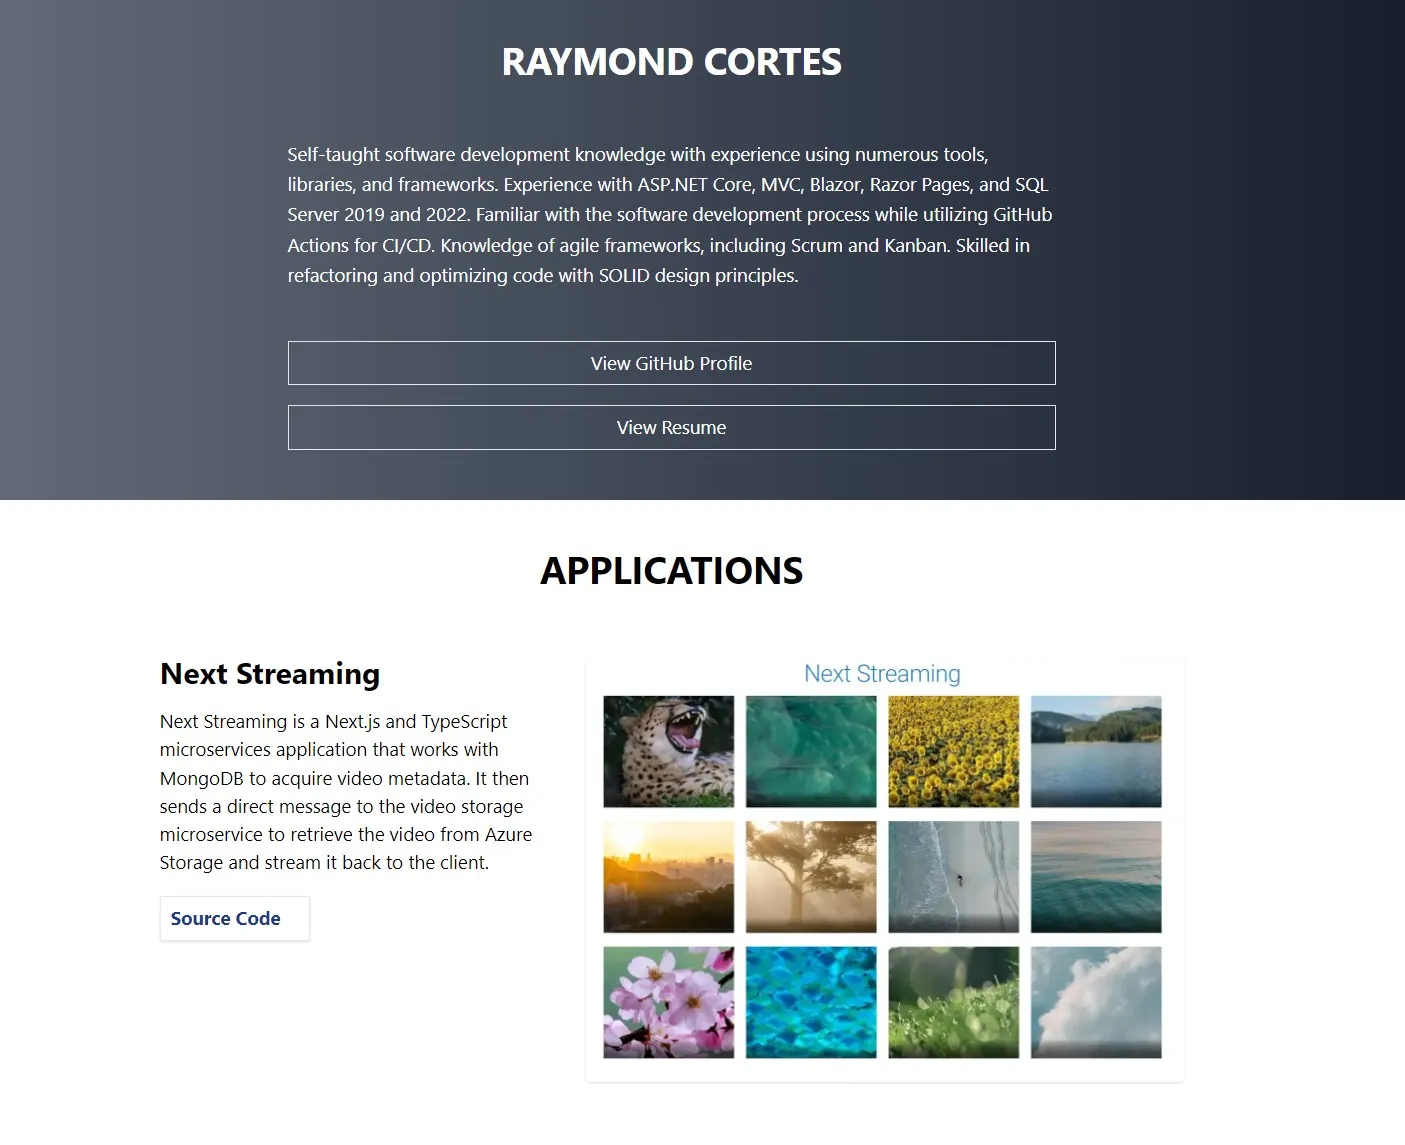
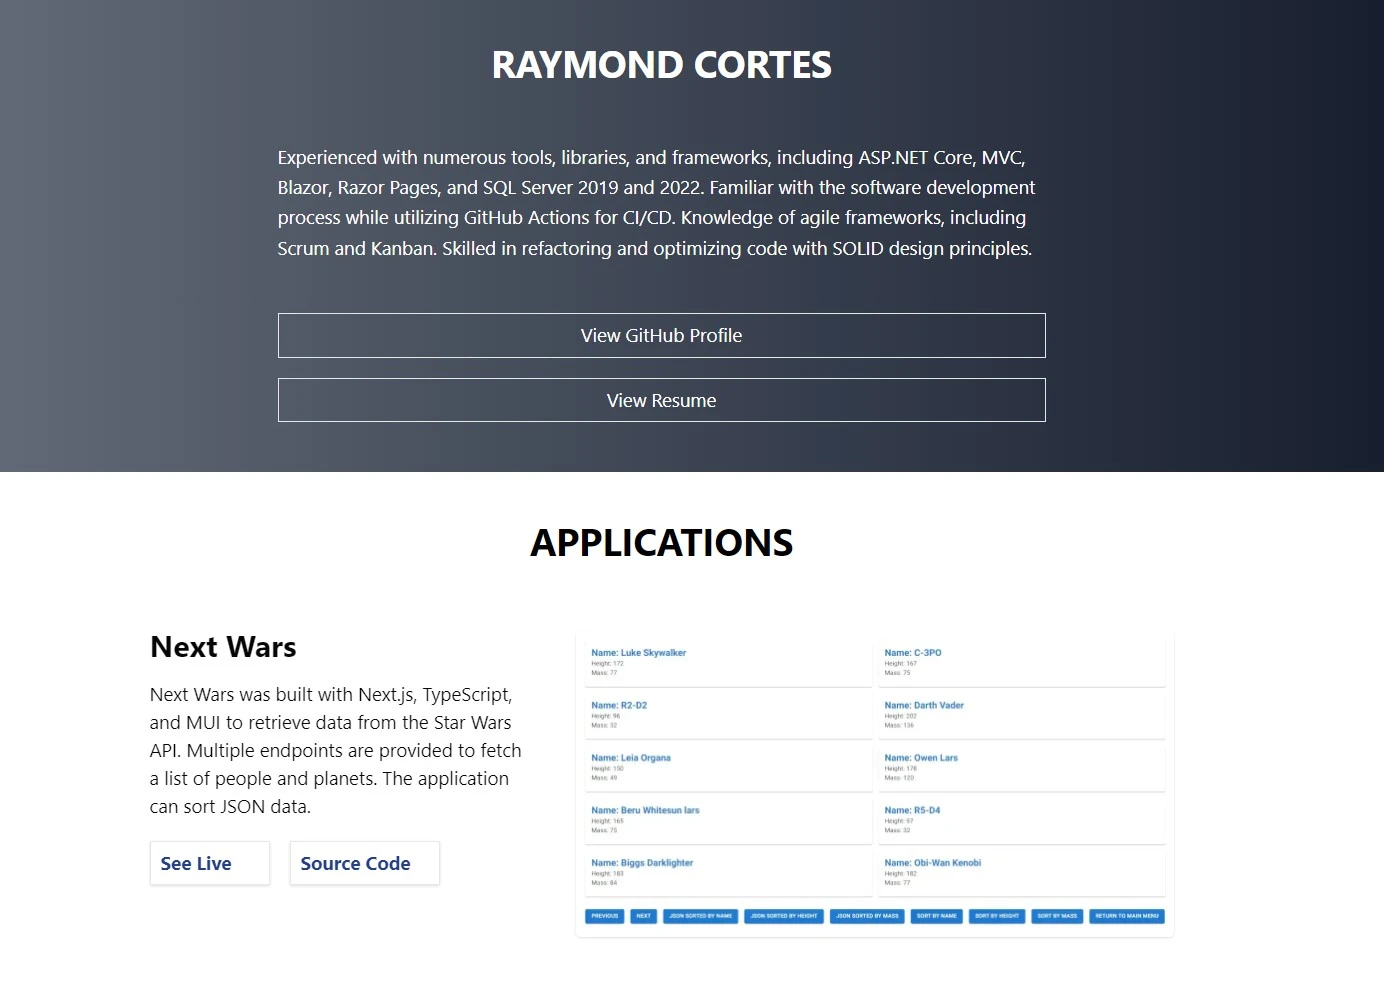
update component

diff --git a/src/components/Header/Header.tsx b/src/components/Header/Header.tsx
@@ -18,7 +18,12 @@ export const Header: React.FC = () => {
         </h1>
         <article>
           <p className='w-9/12 text-3xl leading-relaxed my-8 mx-auto py-12'>
-            Self-taught software development knowledge with experience using numerous tools, libraries, and frameworks. Experience with ASP.NET Core, MVC, Blazor, Razor Pages, and SQL Server 2019 and 2022. Familiar with the software development process while utilizing GitHub Actions for CI/CD. Knowledge of agile frameworks, including Scrum and Kanban. Skilled in refactoring and optimizing code with SOLID design principles.
+            Experienced with numerous tools, libraries, and frameworks,
+            including ASP.NET Core, MVC, Blazor, Razor Pages, and SQL Server
+            2019 and 2022. Familiar with the software development process while
+            utilizing GitHub Actions for CI/CD. Knowledge of agile frameworks,
+            including Scrum and Kanban. Skilled in refactoring and optimizing
+            code with SOLID design principles.
           </p>
           <a
             href='https://github.com/xiraynedev'

diff --git a/src/components/Resume/Experience.tsx b/src/components/Resume/Experience.tsx
@@ -4,7 +4,7 @@ import { SectionContainer } from './SectionContainer';
 export const Experience: FC = () => {
   const experience = {
     title: 'Experience',
-    description: `Self-taught software development knowledge with experience using numerous tools, libraries, and frameworks. Experience with ASP.NET Core, MVC, Blazor, Razor Pages, and SQL Server 2019 and 2022. Familiar with the software development process while utilizing GitHub Actions for CI/CD. Knowledge of agile frameworks, including Scrum and Kanban. Skilled in refactoring and optimizing code with SOLID design principles.`,
+    description: `Experienced with numerous tools, libraries, and frameworks, including ASP.NET Core, MVC, Blazor, Razor Pages, and SQL Server 2019 and 2022. Familiar with the software development process while utilizing GitHub Actions for CI/CD. Knowledge of agile frameworks, including Scrum and Kanban. Skilled in refactoring and optimizing code with SOLID design principles.`,
   };
 
   return <SectionContainer {...experience} />;
